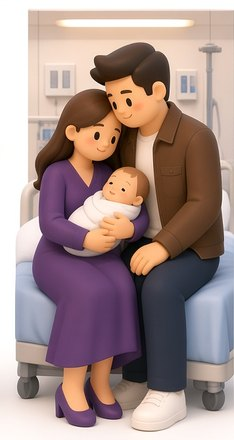
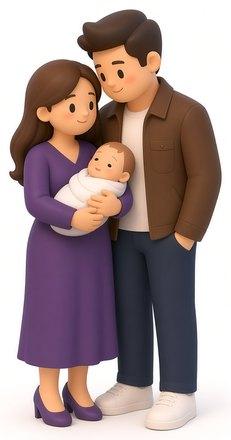
노년·출산·자녀교육 카드 그림 교체, 소개 문장 정리, 복사 안내를 초록으로 (#92)
- 소유자가 올린 세 그림(old/baby/edu)을 brand/pack-later·birth·education.jpg로
  옮기고, 각 그림의 인물 둘레를 재서 440px 높이의 scene-*.jpg를 다시 잘라냄.
  잘린 폭(323·231·327)을 SCENES에 반영. 시트 두 장에서 잘라 쓰던 출산·교육·노후
  항목은 빠짐.
- 소개 「점수도, 판정도 없습니다」에서 "어떻게 하라고 말하지 않습니다. 100개짜리
  설문이 남의 관계에 판정을 내릴 자격은 없다고 생각합니다."를 뺌. /about/ stamp 갱신.
- 초대 패널의 "링크를 복사했어요…" 문장을 초록(#2f7d4f)·굵게. 오류가 아닌 모든
  안내에 is-done이 붙고, 오류는 여전히 붉음.

Claude-Session: https://claude.ai/code/session_01LkTKviRF1Da4h3uBnSbeev

diff --git a/site/config.js b/site/config.js
@@ -133,8 +133,9 @@ export const SITE = Object.freeze({
  * Each carries its own size because the card declares it on the `<img>`, and that declaration is
  * how the browser reserves the right space before the picture arrives. They were all written as
  * one number for a while, which was near enough while every crop was a narrow portrait — the real
- * widths ran 220 to 264 against a declared 234. The family reading a book is 395 wide, and a card
- * reserving half the room it needs shoves the row sideways the moment the picture loads.
+ * widths ran 220 to 264 against a declared 234. The drawings that arrived for 노후 and 자녀교육 are
+ * 323 and 327 wide, and a card reserving two thirds of the room it needs shoves the row sideways
+ * the moment the picture loads.
  *
  * The height is the same for every scene on purpose: `SCENE_HEIGHT` in the generator crops to it,
  * and a common height is what makes crops of different widths read as one set. `test/site.test.js`
@@ -146,9 +147,9 @@ export const SCENES = Object.freeze({
   dating: scene("dating", 220),
   marriage: scene("marriage", 234),
   pregnancy: scene("pregnancy", 221),
-  birth: scene("birth", 234),
-  education: scene("education", 395),
-  later: scene("later", 391)
+  birth: scene("birth", 231),
+  education: scene("education", 327),
+  later: scene("later", 323)
 });
 
 /**

diff --git a/site/pages.js b/site/pages.js
@@ -56,7 +56,7 @@ export const ABOUT_COPY = Object.freeze({
       heading: "점수도, 판정도 없습니다",
       paragraphs: Object.freeze([
         "네 개의 답 중 더 옳은 것은 없습니다. 어느 쪽을 골라도 그것은 지금 당신이 무엇을 중요하게 여기는지를 말할 뿐입니다.",
-        "모두 답하고 나면 결과지를 볼 수 있지만, 결과지는 당신이 고른 답을 그대로 돌려줄 뿐입니다. 점수를 매기지 않고, 관계를 진단하지 않고, 어떻게 하라고 말하지 않습니다. 100개짜리 설문이 남의 관계에 판정을 내릴 자격은 없다고 생각합니다.",
+        "모두 답하고 나면 결과지를 볼 수 있지만, 결과지는 당신이 고른 답을 그대로 돌려줄 뿐입니다. 점수를 매기지 않고, 관계를 진단하지 않습니다.",
         "상대도 같은 질문에 답하면 두 사람의 답을 나란히 놓고 볼 수 있고, 서로 다르게 고른 질문이 먼저 나옵니다. 그것이 이 질문집이 실제로 쓸모 있는 지점입니다."
       ])
     }),

diff --git a/test/site.test.js b/test/site.test.js
@@ -1059,6 +1059,11 @@ test("함께 풀기 opens the site's own panel, and every way out of it is an ad
   assert.match(invite, /objectType: "text"/);
   // A refused clipboard is reported, not reported as a success.
   assert.match(bind, /INVITE_COPY\.copyFailed/);
+  // And a success is green, at the owner's word: the class rides on every non-error sentence.
+  assert.match(bind, /state\.classList\.toggle\("is-done", Boolean\(text\) && !error\)/);
+  const css = readFileSync("site/site.css", "utf8");
+  assert.match(css, /\.invite-state\.is-done \{ color: #2f7d4f; font-weight: 600; \}/);
+  assert.ok(css.indexOf(".invite-state.is-done") < css.indexOf(".invite-state.is-error"), "an error still wins");
   // Closing: the button, and a click that lands on the dialog itself rather than on its contents.
   assert.match(bind, /event\.target === panel\) panel\.close\(\)/);
 });

diff --git a/site/site.css b/site/site.css
@@ -1535,6 +1535,11 @@ html { scroll-padding-top: 120px; }
   line-height: 1.6;
 }
 
+/* At the owner's word: the sentence that says the link is on the clipboard is the panel's one piece
+   of good news, and it is green so it reads as done. The palette has no green of its own — `--green`
+   is the accent-alt grey-blue — so this is the one place a green is named, at the depth of the
+   ink around it. */
+.invite-state.is-done { color: #2f7d4f; font-weight: 600; }
 .invite-state.is-error { color: var(--ab-error); }
 
 .invite-note {

diff --git a/site/invite.js b/site/invite.js
@@ -45,6 +45,8 @@ export function bindInvite() {
     state.hidden = !text;
     state.textContent = text || "";
     state.classList.toggle("is-error", Boolean(error));
+    // Everything the panel says that is not an error is the link having been copied — good news.
+    state.classList.toggle("is-done", Boolean(text) && !error);
   };
 
   // The clipboard can be refused outright. The address is on the screen either way, so the honest

diff --git a/scripts/build-brand-assets.py b/scripts/build-brand-assets.py
@@ -203,10 +203,17 @@ APP = ROOT / "mobile" / "assets"
 #
 # A second sheet arrived later — `brand/pack-scenes-2.jpg`, three panels: a family reading a
 # picture book across the top, an old couple on a bench at bottom left, and a third at bottom right
-# the owner did not name, which is therefore not cut. It carries 교육 and, now, 노후: the bench on
-# the first sheet stood in for 노후 while nothing else did, and this one is drawn for it.
+# the owner did not name, which is therefore not cut. It carried 교육 and 노후 until the drawings
+# below replaced both.
 #
-# So the boxes are grouped by the sheet they are cut from, and a name appearing under two sheets
+# Three single drawings arrived on 2026-09-03, one per pack and each on its own white ground:
+# `pack-later.jpg` (an old couple on a bench sharing a cup — 노후), `pack-birth.jpg` (a couple with a
+# newborn — 출산) and `pack-education.jpg` (parents with a schoolgirl — 자녀교육). Each is cut to its
+# figures with a little air, measured the same way: the bounding box of everything darker than the
+# paper, widened by twenty pixels a side where the drawing allows it. They replace the newborn from
+# the first sheet and both panels from the second, which are now cut by nothing.
+#
+# So the boxes are grouped by the file they are cut from, and a name appearing under two files
 # would be a silent overwrite — `write_pack_scenes` refuses that rather than letting file order
 # decide which picture wins.
 PACK_SCENES = {
@@ -214,25 +221,10 @@ PACK_SCENES = {
         "dating": (17, 144, 349, 808),
         "marriage": (355, 140, 712, 810),
         "pregnancy": (718, 150, 1050, 810),
-        "birth": (1052, 160, 1408, 828),
     },
-    "pack-scenes-2.jpg": {
-        # The family, the book and the toys at their feet. The whole panel was taken first — blocks,
-        # globe and book stack included — and at 277x180 on the card the owner called it too big,
-        # which it was: two and a half times the width of its neighbours in a column where every
-        # other picture is about a hundred wide.
-        #
-        # So the cut comes in to the three figures, and takes the panel's full height rather than
-        # stopping at their knees: the extra height is what brings the width down (161x180, the same
-        # as the bench beside it) and it is where the letter blocks and the open picture book are,
-        # which is what still says 교육 once the globe and the book stack are outside the frame.
-        # The mat runs unbroken from one side of the panel to the other, so the sides cut across it
-        # — at card size that reads as the edge of a picture, not as damage.
-        "education": (272, 40, 968, 816),
-        # The whole bench, both arms inside the crop. Cutting it to the couple alone would end the
-        # planks in mid-air on both sides.
-        "later": (8, 868, 613, 1549),
-    },
+    "pack-later.jpg": {"later": (136, 112, 1149, 1492)},
+    "pack-birth.jpg": {"birth": (656, 0, 1172, 983)},
+    "pack-education.jpg": {"education": (544, 0, 1293, 1008)},
 }
 
 # Sized by height, not width: the figures stand, so the three crops differ in width and agree in
